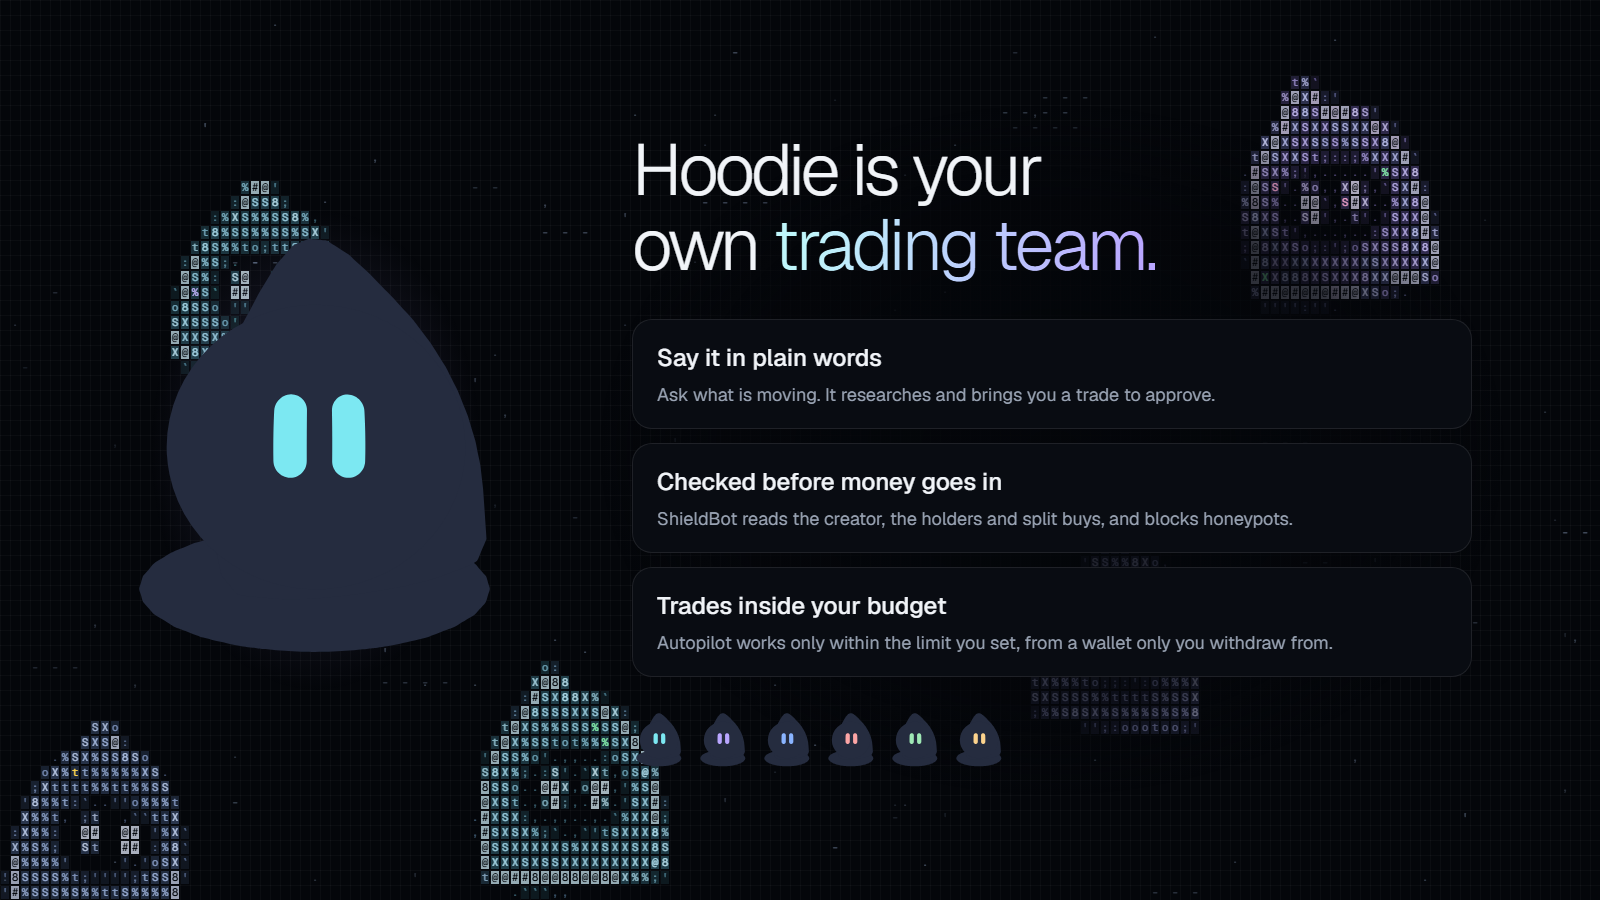
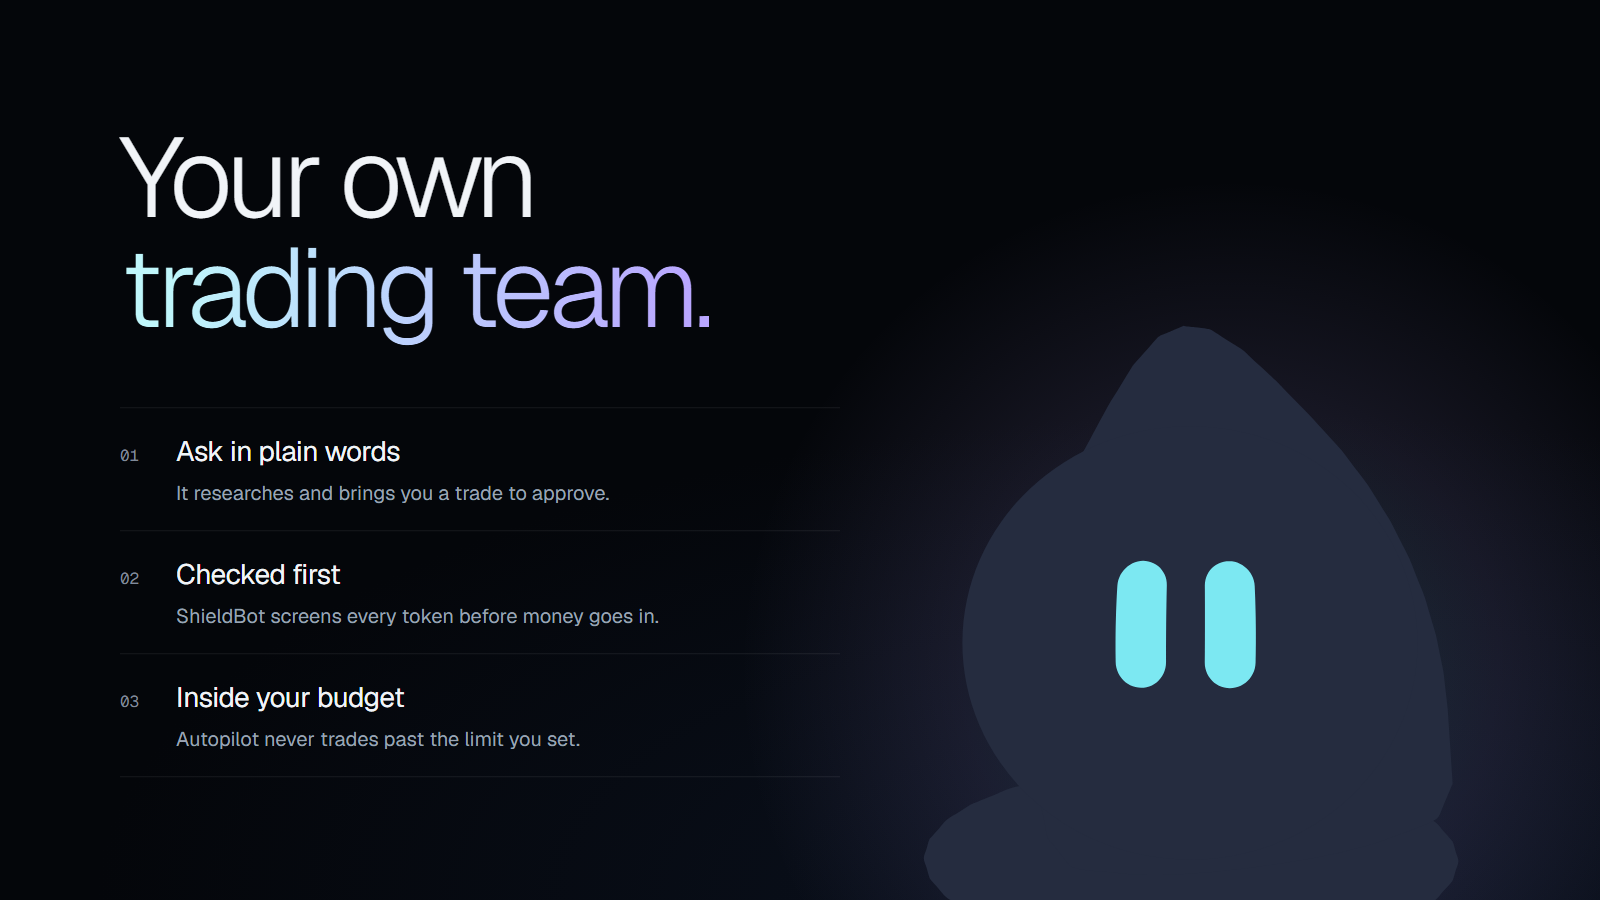
feat: quieter what-is-Hoodie post and a caption that fits one tweet

diff --git a/components/kit/kit.module.css b/components/kit/kit.module.css
@@ -47,13 +47,15 @@
 .typeMono { margin: 0; font-family: var(--font-mono); font-size: 30px; color: var(--text-2) }
 .typeMeta { margin: -14px 0 8px; font-family: var(--font-mono); font-size: 14px; color: var(--text-faint) }
 
-.what { position: relative; display: grid; grid-template-columns: 520px 1fr; align-items: center; gap: 24px; width: 100%; height: 100%; padding: 72px 96px 72px 56px }
-.what > :not(:first-child) { position: relative; z-index: 2 }
-.whatHero { position: relative; display: grid; place-items: center; height: 100% }
-.whatText { display: flex; flex-direction: column; gap: 36px; padding: 28px 32px; border-radius: 28px; background: radial-gradient(closest-side, rgba(4, 6, 10, .92), rgba(4, 6, 10, .7) 75%, transparent) }
-.whatTitle { margin: 0; font-size: 72px; font-weight: 300; line-height: 1.04; letter-spacing: -.05em; text-wrap: balance }
-.steps { display: flex; flex-direction: column; gap: 14px }
-.step { display: flex; flex-direction: column; gap: 6px; padding: 20px 24px; border-radius: 20px; border: 1px solid var(--border); background: #090c12 }
-.step strong { font-size: 24px; font-weight: 500 }
-.step span { font-size: 18px; line-height: 1.45; color: var(--text-muted) }
-.whatTeam { display: flex; gap: 10px; align-items: flex-end }
+.what { position: relative; width: 100%; height: 100%; background: radial-gradient(120% 90% at 78% 100%, #0b1220, var(--bg) 60%) }
+.whatAura { position: absolute; right: -120px; bottom: -260px; width: 980px; height: 980px; border-radius: 50%; background: radial-gradient(closest-side, rgba(124, 232, 242, .18), rgba(185, 166, 255, .1) 55%, transparent) }
+.whatHero { position: absolute; right: 90px; bottom: -70px }
+.whatText { position: absolute; left: 120px; top: 50%; transform: translateY(-50%); display: flex; flex-direction: column; gap: 64px; width: 720px }
+.whatTitle { margin: 0; font-size: 112px; font-weight: 300; line-height: .98; letter-spacing: -.055em }
+.steps { display: flex; flex-direction: column; margin: 0; padding: 0; list-style: none }
+.step { display: grid; grid-template-columns: 56px 1fr; align-items: baseline; padding: 22px 0; border-top: 1px solid rgba(255, 255, 255, .08) }
+.step:last-child { border-bottom: 1px solid rgba(255, 255, 255, .08) }
+.step code { font-family: var(--font-mono); font-size: 16px; color: var(--text-faint) }
+.step div { display: flex; flex-direction: column; gap: 6px }
+.step strong { font-size: 28px; font-weight: 400; letter-spacing: -.02em }
+.step span { font-size: 20px; color: var(--text-muted) }

diff --git a/components/kit/Kit.tsx b/components/kit/Kit.tsx
@@ -121,20 +121,19 @@ function body(name: Name): ReactNode {
     case "post-what":
       return (
         <div className={s.what}>
-          <Field />
-          <div className={s.whatHero}><div className={s.glow} /><div className={s.lift}><Hoodie size={420} still="neutral" /></div></div>
+          <div className={s.whatAura} />
+          <div className={s.whatHero}><Hoodie size={640} still="neutral" /></div>
           <div className={s.whatText}>
-            <h1 className={s.whatTitle}>Hoodie is your own <span className="grad">trading team.</span></h1>
-            <div className={s.steps}>
+            <h1 className={s.whatTitle}>Your own<br /><span className="grad">trading team.</span></h1>
+            <ol className={s.steps}>
               {[
-                ["Say it in plain words", "Ask what is moving. It researches and brings you a trade to approve."],
-                ["Checked before money goes in", "ShieldBot reads the creator, the holders and split buys, and blocks honeypots."],
-                ["Trades inside your budget", "Autopilot works only within the limit you set, from a wallet only you withdraw from."],
-              ].map(([h, p]) => (
-                <div key={h} className={s.step}><strong>{h}</strong><span>{p}</span></div>
+                ["Ask in plain words", "It researches and brings you a trade to approve."],
+                ["Checked first", "ShieldBot screens every token before money goes in."],
+                ["Inside your budget", "Autopilot never trades past the limit you set."],
+              ].map(([h, p], i) => (
+                <li key={h} className={s.step}><code>0{i + 1}</code><div><strong>{h}</strong><span>{p}</span></div></li>
               ))}
-            </div>
-            <div className={s.whatTeam}>{MEMBERS.map((m) => <Hoodie key={m} member={m} size={54} still="neutral" />)}</div>
+            </ol>
           </div>
         </div>
       );
